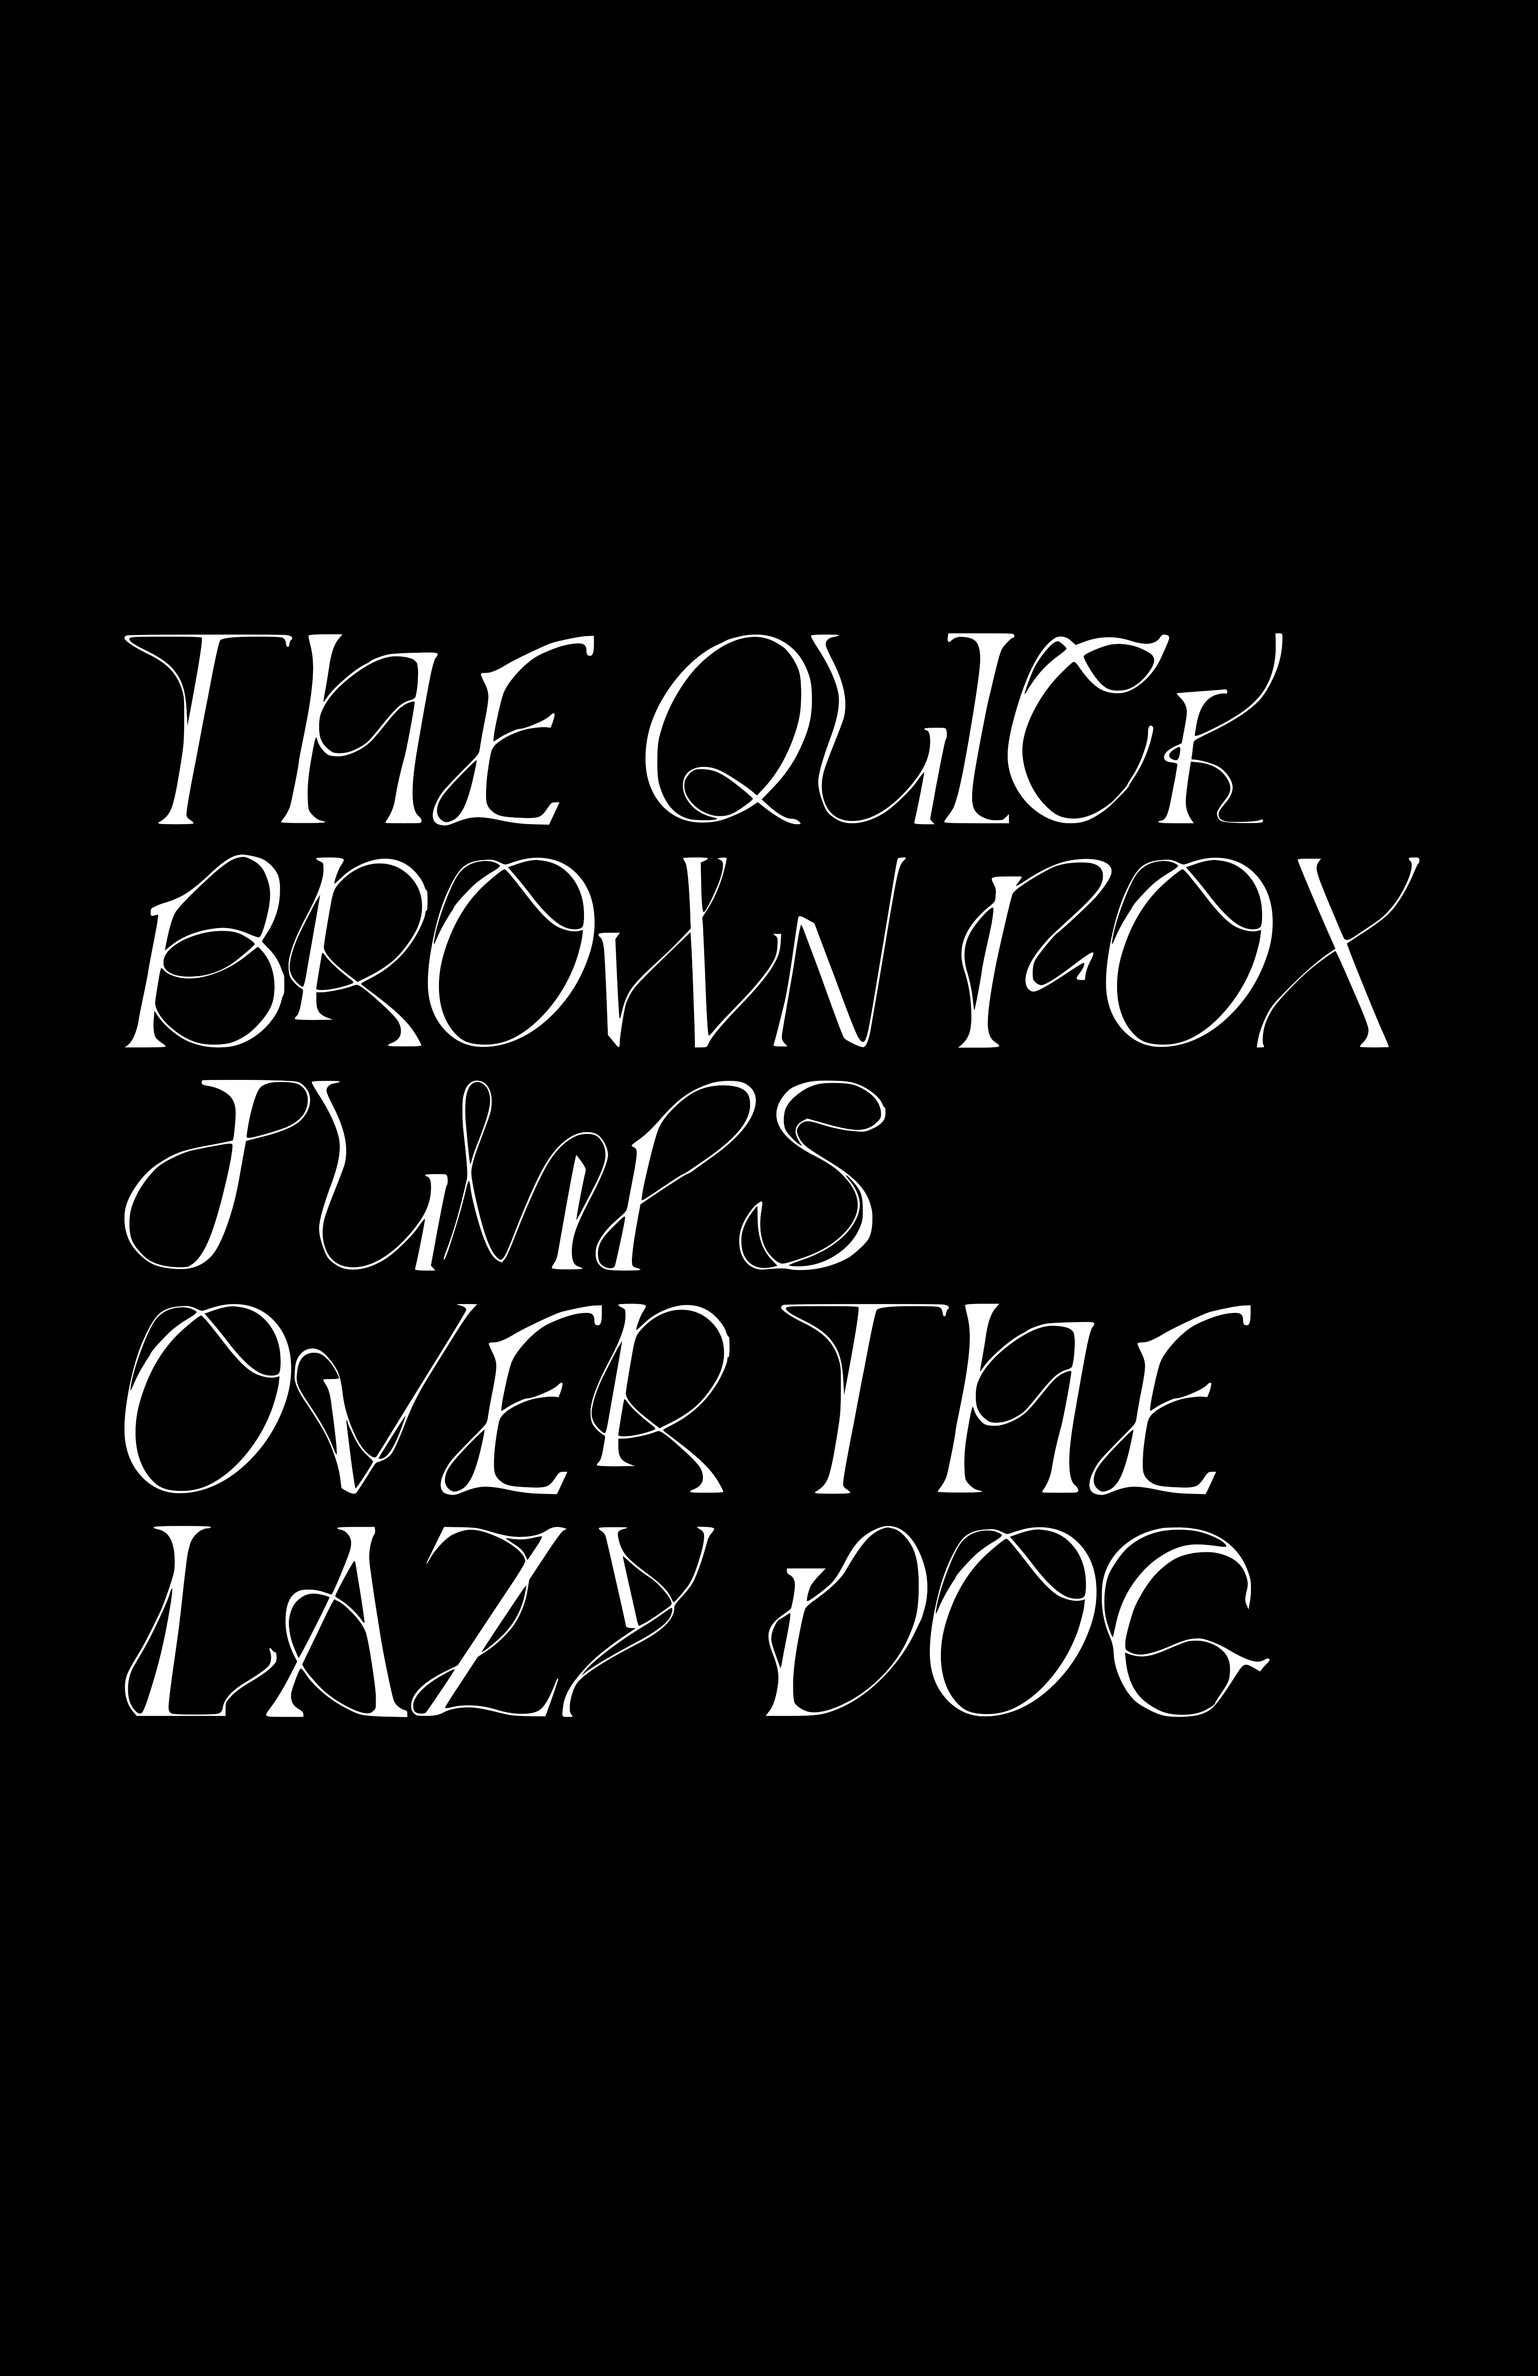
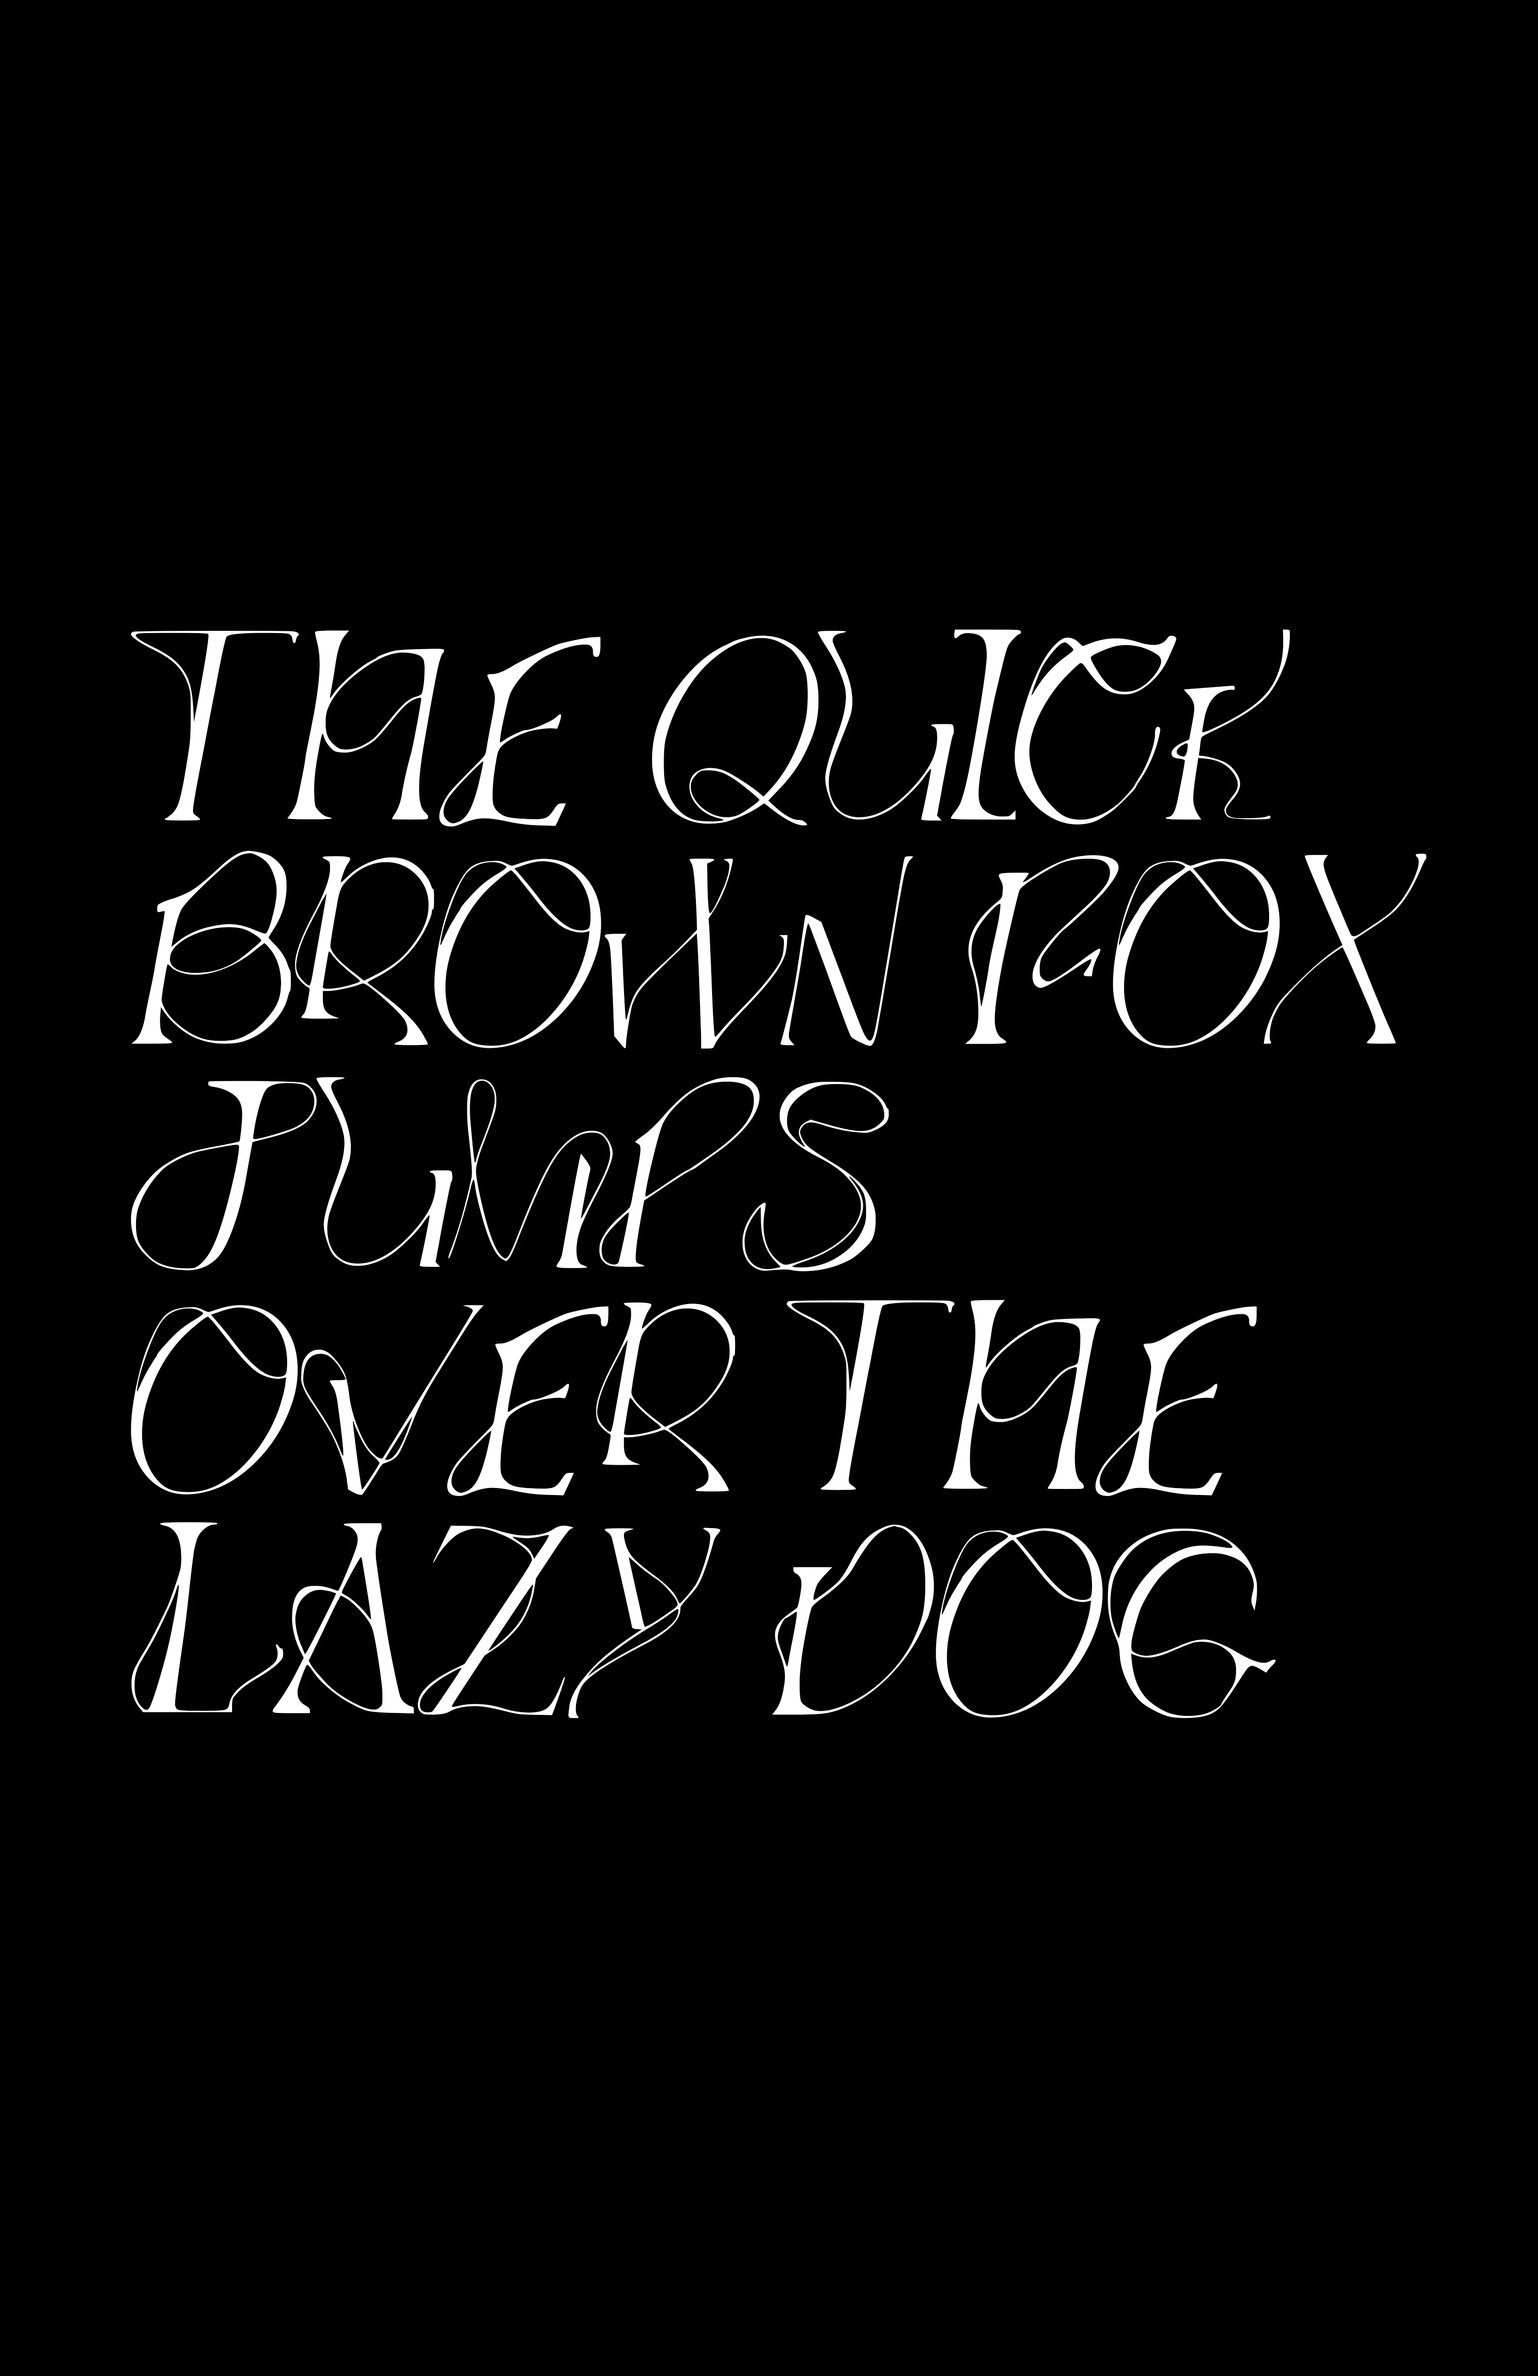
typeface fix

diff --git a/play.html b/play.html
@@ -183,8 +183,11 @@
                     <img loading="eager" src="images/misc/typeface draft.webp" style="width:100%">
                   </div>
                   <div class="mySlides12 fade">
-                    <img loading="eager" src="images/misc/e.webp" style="width:100%">
+                    <img loading="eager" src="images/misc/typeface draft2.webp" style="width:100%">
                     </div>
+                  <div class="mySlides12 fade">
+                    <img loading="eager" src="images/misc/e.webp" style="width:100%">
+                  </div>
                   <!-- Next and previous buttons -->
                   <a class="prev" onclick="plusSlides12(-1)">&#10094;</a>
                   <a class="next" onclick="plusSlides12(1)">&#10095;</a>
